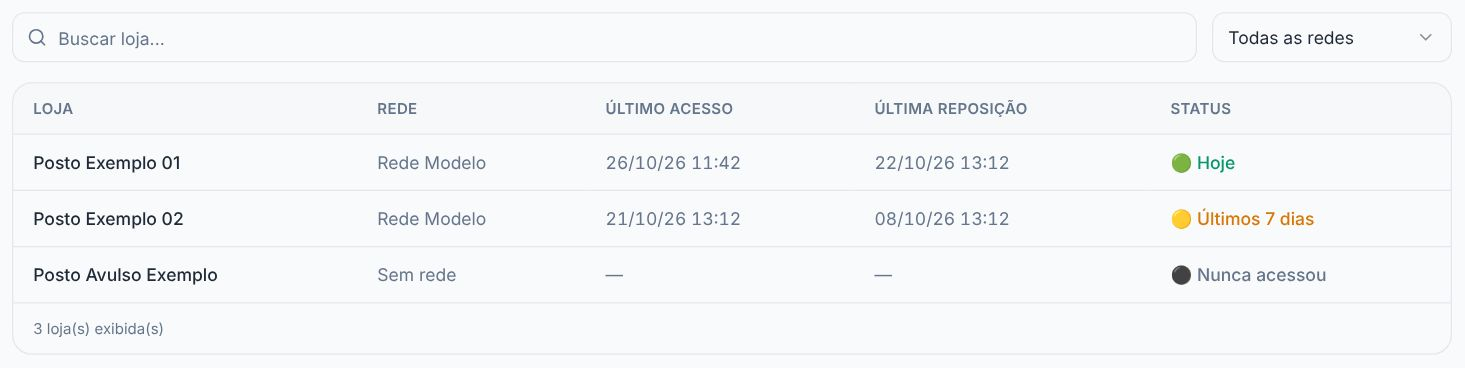
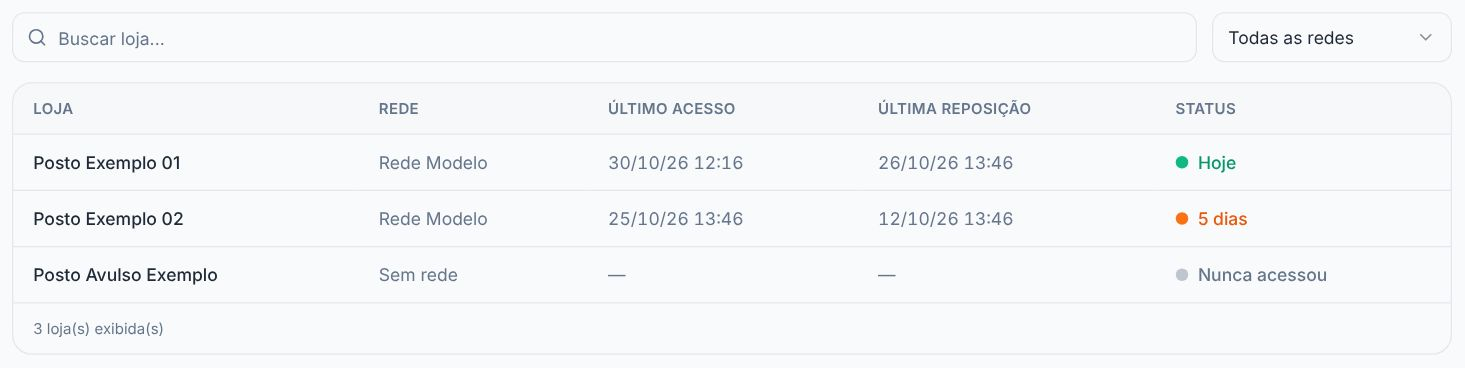
TI · Último acesso: dias exatos (Hoje, Ontem, N dias) e a cor diz a faixa
Verde hoje/ontem · amarelo 2-3 dias · laranja 4-7 · vermelho mais de 7 ·
cinza nunca. Dias de calendário em Brasília. O status passa a olhar o mesmo
instante que a coluna Último acesso mostra (o mais recente entre login e
abertura de sistema). Filtro por faixa; os filtros antigos na URL seguem
abrindo. Documentação e prints refeitos.

Claude-Session: https://claude.ai/code/session_014dECjKfnWPqtYYc6bX6aZY

diff --git a/apps/ti/src/pages/UltimoAcesso.tsx b/apps/ti/src/pages/UltimoAcesso.tsx
@@ -6,7 +6,7 @@ import { Skeleton } from "@/components/ui/skeleton";
 import { Select, SelectContent, SelectItem, SelectTrigger, SelectValue } from "@/components/ui/select";
 import { Input } from "@/components/ui/input";
 import { Tabs, TabsContent, TabsList, TabsTrigger } from "@/components/ui/tabs";
-import { format, differenceInDays, isToday } from "date-fns";
+import { format, differenceInDays } from "date-fns";
 import { ptBR } from "date-fns/locale";
 import { Users, Store, Building2, Search, Clock, Activity } from "lucide-react";
 
@@ -52,14 +52,46 @@ const APP_LABEL: Record<string, string> = {
 const appLabel = (a: string | null) => (a ? APP_LABEL[a] ?? a : null);
 const pretty = (s: string | null) => (s ? s.replace(/_/g, " ").replace(/\b\w/g, (c) => c.toUpperCase()) : "—");
 
+// Recência = dias de CALENDÁRIO em Brasília entre hoje e o último acesso
+// ("Ontem" é ontem, mesmo que tenha sido há 3 horas). O rótulo diz os dias
+// exatos; a COR diz a faixa (pedido do dono do processo, 30/10/2026).
+const diaBrasilia = (d: Date) => {
+  const [a, m, dd] = new Intl.DateTimeFormat("en-CA", { timeZone: "America/Sao_Paulo" }).format(d).split("-").map(Number);
+  return Date.UTC(a, m - 1, dd);
+};
+const diasDesde = (dt: string) => Math.max(0, Math.round((diaBrasilia(new Date()) - diaBrasilia(new Date(dt))) / 86_400_000));
+
+type Faixa = "verde" | "amarelo" | "laranja" | "vermelho" | "nunca";
+const FAIXAS: Record<Faixa, { filtro: string; color: string; dot: string }> = {
+  verde:    { filtro: "Hoje ou ontem",     color: "text-emerald-600", dot: "bg-emerald-500" },
+  amarelo:  { filtro: "2 a 3 dias",        color: "text-amber-600",   dot: "bg-amber-400" },
+  laranja:  { filtro: "4 a 7 dias",        color: "text-orange-600",  dot: "bg-orange-500" },
+  vermelho: { filtro: "Mais de 7 dias",    color: "text-red-600",     dot: "bg-red-500" },
+  nunca:    { filtro: "Nunca acessou",     color: "text-muted-foreground", dot: "bg-muted-foreground/40" },
+};
+// Filtros antigos na URL (favorito, link) continuam abrindo algo coerente.
+const FILTRO_ANTIGO: Record<string, Faixa> = { hoje: "verde", semana: "amarelo", mais7: "vermelho", mais30: "vermelho" };
+
 function getActivityStatus(dt: string | null) {
-  if (!dt) return { label: "Nunca acessou", color: "text-muted-foreground", dot: "⚫" };
-  const d = new Date(dt);
-  const days = differenceInDays(new Date(), d);
-  if (isToday(d)) return { label: "Hoje", color: "text-emerald-600", dot: "🟢" };
-  if (days <= 7) return { label: "Últimos 7 dias", color: "text-amber-600", dot: "🟡" };
-  if (days <= 30) return { label: "+7 dias", color: "text-red-500", dot: "🔴" };
-  return { label: "+30 dias", color: "text-muted-foreground", dot: "⚫" };
+  if (!dt) return { faixa: "nunca" as Faixa, label: "Nunca acessou", ...FAIXAS.nunca };
+  const dias = diasDesde(dt);
+  const faixa: Faixa = dias <= 1 ? "verde" : dias <= 3 ? "amarelo" : dias <= 7 ? "laranja" : "vermelho";
+  const label = dias === 0 ? "Hoje" : dias === 1 ? "Ontem" : `${dias} dias`;
+  return { faixa, label, ...FAIXAS[faixa] };
+}
+// O status olha o MESMO instante que a coluna "Último acesso" mostra: o mais
+// recente entre login e abertura de sistema (pelo SSO a pessoa abre o app sem
+// logar de novo, e o status dizia "dias" ao lado de uma data de ontem).
+const ultimoInstante = (r: LoginRow) =>
+  [r.last_app_at, r.last_login_at].filter(Boolean).sort().pop() ?? null;
+
+function StatusRecencia({ dt }: { dt: string | null }) {
+  const s = getActivityStatus(dt);
+  return (
+    <span className={`inline-flex items-center gap-2 text-sm font-medium ${s.color}`}>
+      <span className={`h-2.5 w-2.5 rounded-full shrink-0 ${s.dot}`} />{s.label}
+    </span>
+  );
 }
 function getLicenseeStatus(dt: string | null, orders: number): { label: string; variant: "default" | "secondary" | "destructive" } {
   if (!dt) return { label: "Inativo", variant: "destructive" };
@@ -99,8 +131,8 @@ function InternalSection({ rows }: { rows: LoginRow[] }) {
     if (filterDept !== "all" && r.department !== filterDept) return false;
     if (filterApp !== "all" && r.last_app !== filterApp) return false;
     if (filterStatus !== "all") {
-      const map: Record<string, string> = { hoje: "Hoje", semana: "Últimos 7 dias", mais7: "+7 dias", mais30: "+30 dias", nunca: "Nunca acessou" };
-      if (getActivityStatus(r.last_login_at).label !== map[filterStatus]) return false;
+      const faixa = FILTRO_ANTIGO[filterStatus] ?? filterStatus;
+      if (getActivityStatus(ultimoInstante(r)).faixa !== faixa) return false;
     }
     if (search && !r.full_name?.toLowerCase().includes(search.toLowerCase())) return false;
     return true;
@@ -127,15 +159,15 @@ function InternalSection({ rows }: { rows: LoginRow[] }) {
             {apps.map((a) => <SelectItem key={a} value={a}>{appLabel(a)}</SelectItem>)}
           </SelectContent>
         </Select>
-        <Select value={filterStatus} onValueChange={setFilterStatus}>
+        <Select value={FILTRO_ANTIGO[filterStatus] ?? filterStatus} onValueChange={setFilterStatus}>
           <SelectTrigger className="w-44"><SelectValue placeholder="Status" /></SelectTrigger>
           <SelectContent>
             <SelectItem value="all">Todos status</SelectItem>
-            <SelectItem value="hoje">🟢 Hoje</SelectItem>
-            <SelectItem value="semana">🟡 Últimos 7 dias</SelectItem>
-            <SelectItem value="mais7">🔴 +7 dias</SelectItem>
-            <SelectItem value="mais30">⚫ +30 dias</SelectItem>
-            <SelectItem value="nunca">⚫ Nunca acessou</SelectItem>
+            {(Object.keys(FAIXAS) as Faixa[]).map((f) => (
+              <SelectItem key={f} value={f}>
+                <span className="inline-flex items-center gap-2"><span className={`h-2.5 w-2.5 rounded-full ${FAIXAS[f].dot}`} />{FAIXAS[f].filtro}</span>
+              </SelectItem>
+            ))}
           </SelectContent>
         </Select>
       </div>
@@ -149,7 +181,6 @@ function InternalSection({ rows }: { rows: LoginRow[] }) {
             </tr></thead>
             <tbody className="divide-y divide-border">
               {filtered.length === 0 ? <EmptyState label="usuário interno" cols={6} /> : filtered.map((row) => {
-                const status = getActivityStatus(row.last_login_at);
                 return (
                   <tr key={row.user_id} className="hover:bg-secondary/20 transition-colors">
                     <td className="px-4 py-3 font-medium">{row.full_name || "—"}</td>
@@ -168,8 +199,8 @@ function InternalSection({ rows }: { rows: LoginRow[] }) {
                         ? <Badge variant="outline" className="text-xs gap-1"><Activity className="h-3 w-3 text-carbo-green" />{appLabel(row.last_app)}</Badge>
                         : <span className="text-muted-foreground">—</span>}
                     </td>
-                    <td className="px-4 py-3 text-muted-foreground tabular-nums">{fmt(row.last_app_at ?? row.last_login_at)}</td>
-                    <td className="px-4 py-3"><span className={`text-sm font-medium ${status.color}`}>{status.dot} {status.label}</span></td>
+                    <td className="px-4 py-3 text-muted-foreground tabular-nums">{fmt(ultimoInstante(row))}</td>
+                    <td className="px-4 py-3"><StatusRecencia dt={ultimoInstante(row)} /></td>
                   </tr>
                 );
               })}
@@ -270,14 +301,13 @@ function LojasSection({ rows }: { rows: LoginRow[] }) {
             </tr></thead>
             <tbody className="divide-y divide-border">
               {filtered.length === 0 ? <EmptyState label="loja" cols={5} /> : filtered.map((row) => {
-                const status = getActivityStatus(row.last_login_at);
                 return (
                   <tr key={row.user_id} className="hover:bg-secondary/20 transition-colors">
                     <td className="px-4 py-3 font-medium">{row.full_name || "—"}</td>
                     <td className="px-4 py-3 text-muted-foreground">{row.region || "—"}</td>
                     <td className="px-4 py-3 text-muted-foreground tabular-nums">{fmt(row.last_login_at)}</td>
                     <td className="px-4 py-3 text-muted-foreground tabular-nums">{fmt(row.last_replenishment_at)}</td>
-                    <td className="px-4 py-3"><span className={`text-sm font-medium ${status.color}`}>{status.dot} {status.label}</span></td>
+                    <td className="px-4 py-3"><StatusRecencia dt={row.last_login_at} /></td>
                   </tr>
                 );
               })}

diff --git a/apps/ti/src/docs/secoes/auditoria.ts b/apps/ti/src/docs/secoes/auditoria.ts
@@ -149,9 +149,9 @@ export const SECOES_AUDITORIA: Secao[] = [
           { n: 3, titulo: "Buscar", texto: "Procura pelo nome." },
           { n: 4, titulo: "Departamento", texto: "Mostra só um departamento." },
           { n: 5, titulo: "Sistema", texto: "Mostra só quem entrou por último num sistema (Sales, Ops, TI…)." },
-          { n: 6, titulo: "Status", texto: "Filtra por quando foi o último acesso: hoje, últimos 7 dias, mais de 7, mais de 30, ou nunca." },
+          { n: 6, titulo: "Status", texto: "Filtra pela cor: hoje ou ontem, 2 a 3 dias, 4 a 7 dias, mais de 7 dias, ou nunca acessou." },
           { n: 7, titulo: "Último sistema", texto: "Por qual sistema a pessoa entrou da última vez. O horário ao lado é o desse acesso." },
-          { n: 8, titulo: "Status", texto: "🟢 entrou hoje · 🟡 nos últimos 7 dias · 🔴 há mais de 7 · ⚫ há mais de 30 dias ou nunca acessou." },
+          { n: 8, titulo: "Status", texto: "Quantos dias desde o último acesso (Hoje, Ontem, 5 dias…), contados no calendário. A cor diz a faixa: verde hoje ou ontem · amarelo 2 a 3 dias · laranja 4 a 7 · vermelho mais de 7 · cinza nunca acessou." },
           { n: 9, titulo: "Quantos", texto: "Quantas pessoas a lista mostra com os filtros de agora." },
           { titulo: "Atualização", texto: "A tela se atualiza sozinha a cada minuto." },
         ],
@@ -171,7 +171,7 @@ export const SECOES_AUDITORIA: Secao[] = [
         itens: [
           { n: 1, titulo: "Rede", texto: "Mostra só as lojas de uma rede." },
           { n: 2, titulo: "Última reposição", texto: "Quando a loja recebeu reposição de estoque pela última vez." },
-          { n: 3, titulo: "Status", texto: "A mesma régua do time interno: hoje, 7 dias, mais de 7, mais de 30 ou nunca." },
+          { n: 3, titulo: "Status", texto: "A mesma régua do time interno: os dias desde o último acesso, com a cor da faixa." },
         ],
       },
     ],

diff --git a/apps/ti/src/docs/marcadores.ts b/apps/ti/src/docs/marcadores.ts
@@ -286,8 +286,8 @@ export const MARCADORES: Record<string, Record<number, Caixa>> = {
     4: { x: 60, y: 35.67, w: 12.22, h: 4.44 },
     5: { x: 73.06, y: 35.67, w: 12.22, h: 4.44 },
     6: { x: 86.11, y: 35.67, w: 12.22, h: 4.44 },
-    7: { x: 54.56, y: 46.5, w: 15.35, h: 5.22 },
-    8: { x: 83.3, y: 46.5, w: 14.96, h: 5.22 },
+    7: { x: 54.7, y: 46.5, w: 15.41, h: 5.22 },
+    8: { x: 83.55, y: 46.5, w: 14.71, h: 5.22 },
     9: { x: 18.4, y: 83, w: 79.86, h: 4.56 },
   },
   "ultimo-acesso-licenciados": {
@@ -297,8 +297,8 @@ export const MARCADORES: Record<string, Record<number, Caixa>> = {
   },
   "ultimo-acesso-lojas": {
     1: { x: 82.76, y: 3.4, w: 16.38, h: 13.61 },
-    2: { x: 58.36, y: 36.56, w: 20.21, h: 15.31 },
-    3: { x: 78.57, y: 36.56, w: 20.5, h: 15.31 },
+    2: { x: 58.61, y: 36.56, w: 20.29, h: 15.31 },
+    3: { x: 78.9, y: 36.56, w: 20.16, h: 15.31 },
   },
   "usuarios": {
     1: { x: 86.79, y: 11.44, w: 9.88, h: 4.44 },
